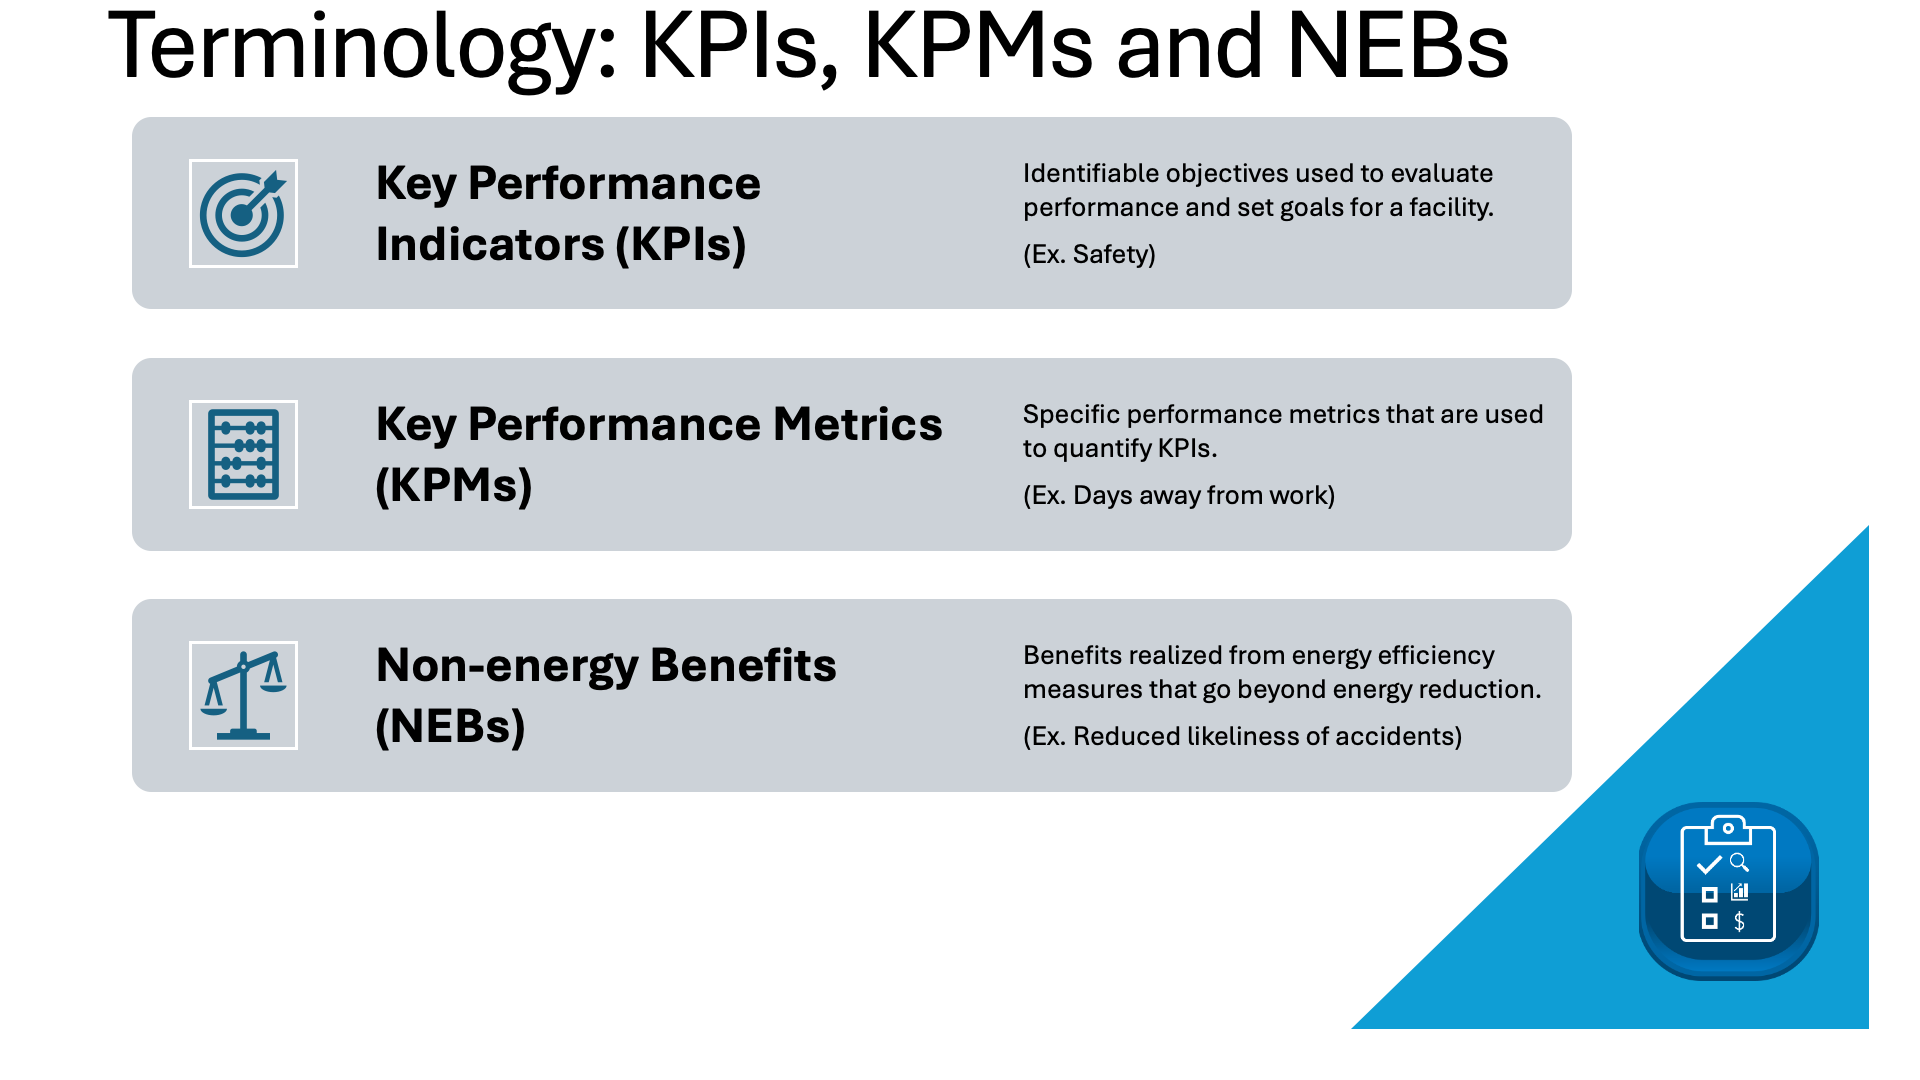
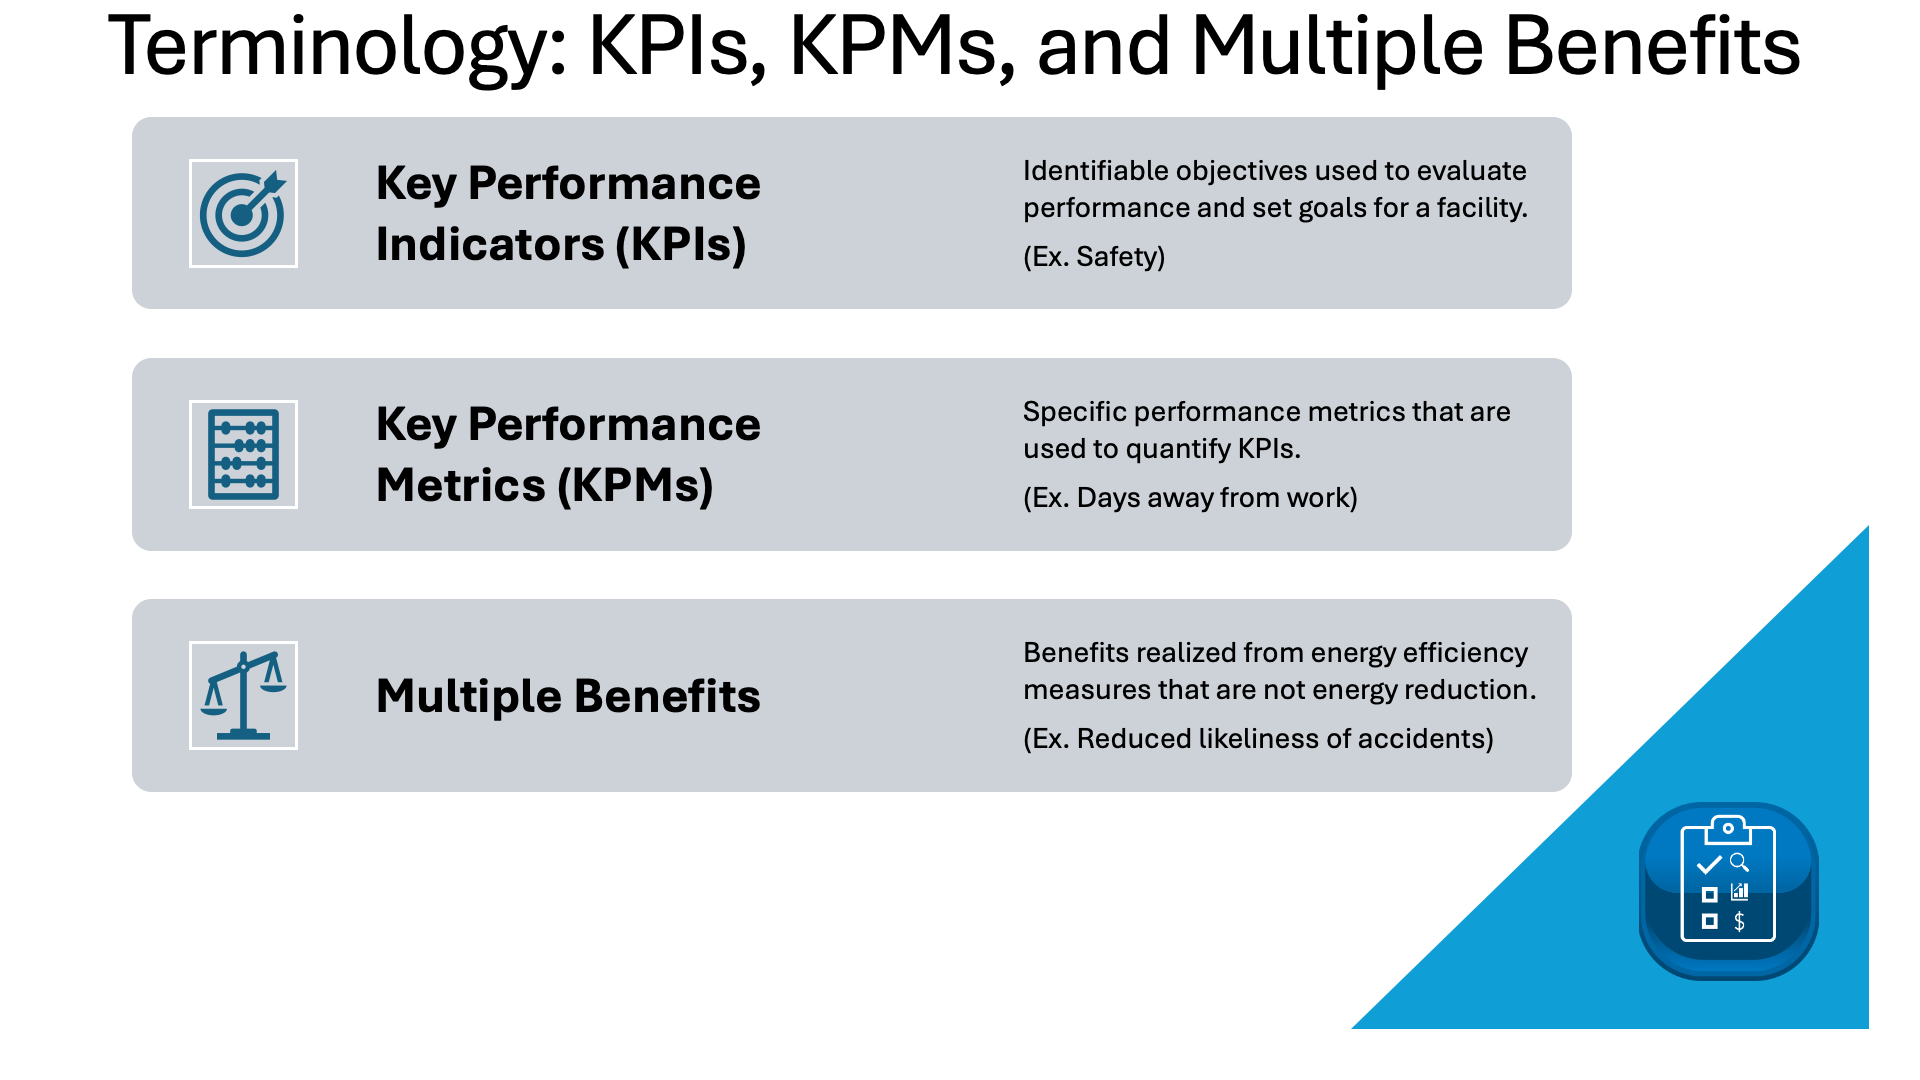
update: new slides with multiple benefits language

diff --git a/src/app/core-components/welcome-slideshow/welcome-slideshow.component.html b/src/app/core-components/welcome-slideshow/welcome-slideshow.component.html
@@ -20,8 +20,6 @@
                     aria-label="Slide 6"></button>
                 <button type="button" data-bs-target="#carouselExampleIndicators" data-bs-slide-to="6"
                     aria-label="Slide 7"></button>
-                <button type="button" data-bs-target="#carouselExampleIndicators" data-bs-slide-to="7"
-                    aria-label="Slide 8"></button>
             </div>
             <div class="carousel-inner">
                 <div class="carousel-item active">
@@ -63,7 +61,7 @@
                 <div class="carousel-item">
                     <div class="d-flex justify-content-center">
                         <div class="img-container">
-                            <img src="assets/Welcome-To-JUSTIFI/Slide6.png" alt="Beta - Thank you"
+                            <img src="assets/Welcome-To-JUSTIFI/Slide6.png" alt="Notes on Data"
                                 class="img-fluid" />
                         </div>
                     </div>
@@ -71,19 +69,11 @@
                 <div class="carousel-item">
                     <div class="d-flex justify-content-center">
                         <div class="img-container">
-                            <img src="assets/Welcome-To-JUSTIFI/Slide7.png" alt="Notes on Data"
-                                class="img-fluid" />
-                        </div>
-                    </div>
-                </div>
-                <div class="carousel-item">
-                    <div class="d-flex justify-content-center">
-                        <div class="img-container">
-                            <img src="assets/Welcome-To-JUSTIFI/Slide8.png" alt="Thank you - get started"
+                            <img src="assets/Welcome-To-JUSTIFI/Slide7.png" alt="Thank you - get started"
                                 class="img-fluid" />
                         </div>
                         <button class="btn btn-outline-neb get-started-button" (click)="disableSlides()">
-                            Start Discovering NEBs!
+                            Start Discovering Multiple Benefits!
                         </button>
                     </div>
                 </div>
